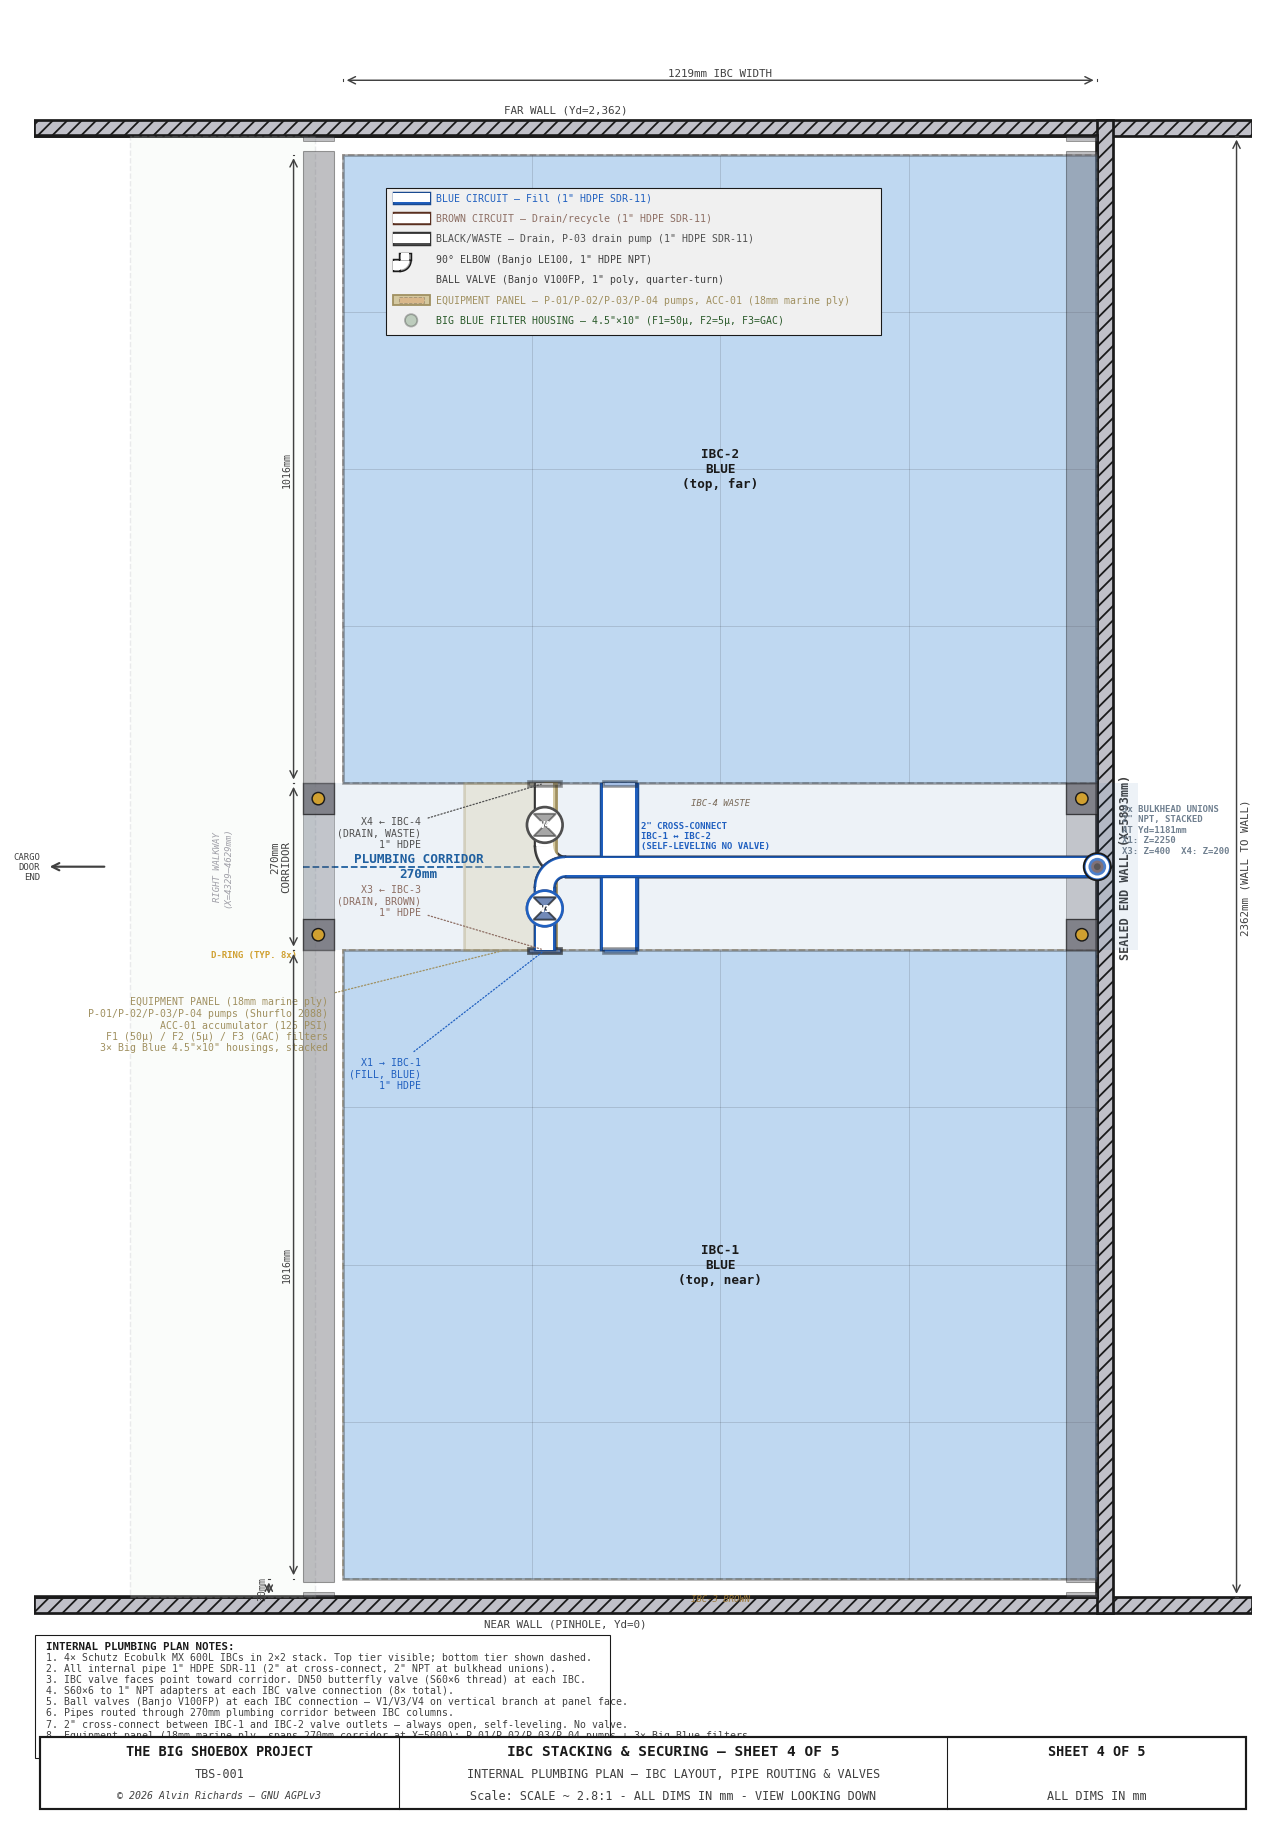
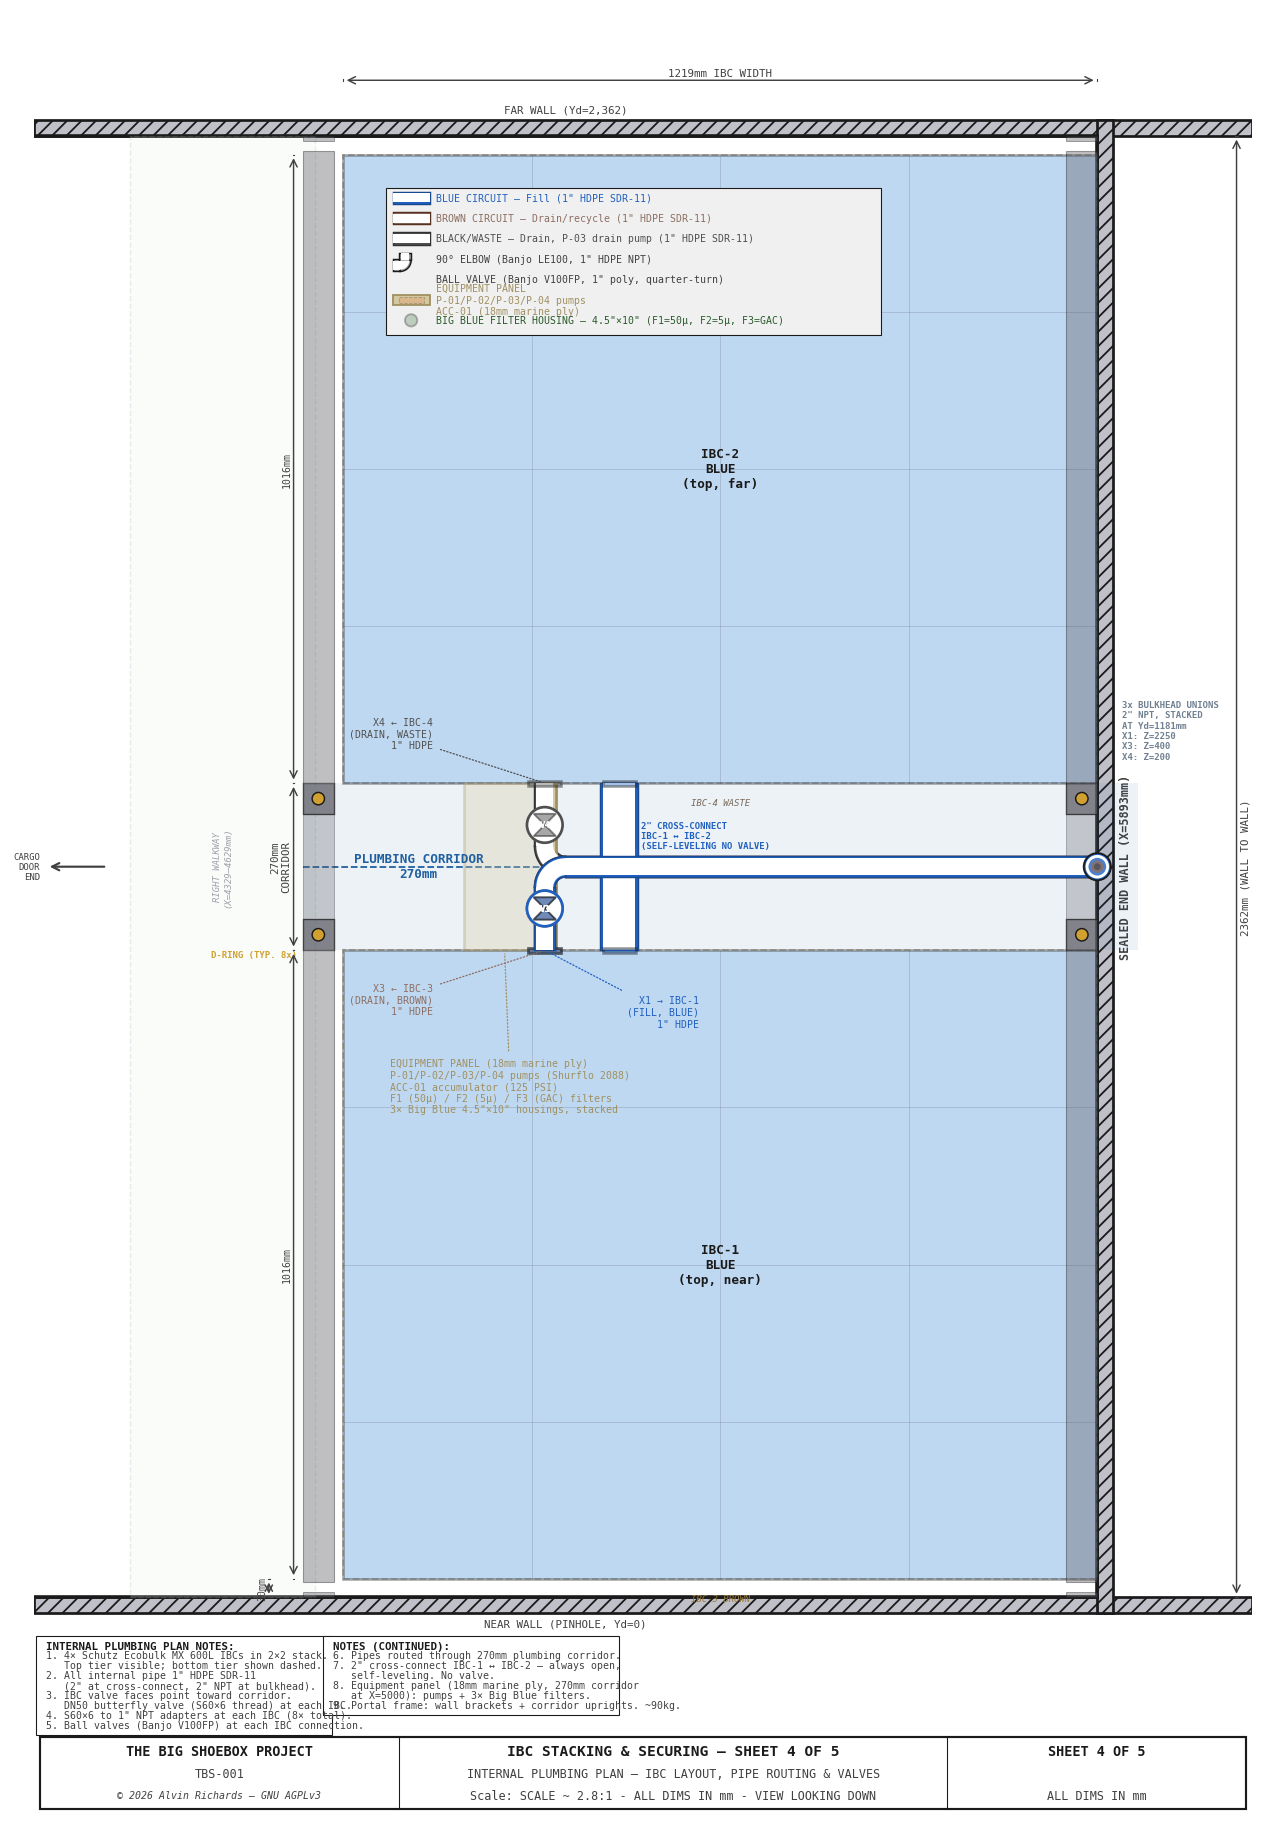
IBC stacking sheet 4: split notes into two columns to clear title block

diff --git a/generate_ibc_stacking_diagram.py b/generate_ibc_stacking_diagram.py
@@ -1379,13 +1379,13 @@ def sheet4():
 
     # Leader with panel contents
     leader(ax, px(ep_face_x - BB_OD / 2), py(ep_yd_near),
-           px(ep_face_x - 350), py(ep_yd_near - 120),
+           px(ep_face_x - 250), py(ep_yd_near - 220),
            "EQUIPMENT PANEL (18mm marine ply)\n"
            "P-01/P-02/P-03/P-04 pumps (Shurflo 2088)\n"
            "ACC-01 accumulator (125 PSI)\n"
            "F1 (50μ) / F2 (5μ) / F3 (GAC) filters\n"
            "3× Big Blue 4.5\"×10\" housings, stacked",
-           fs=5.5, color="#A09060", ha="right", font=FONT)
+           fs=5.5, color="#A09060", ha="left", font=FONT)
 
     # ── Pipe fitting helpers (matching sheet 5 conventions) ────────────────
     PIPE_OD = 33.4    # 1" HDPE SDR-11 outer diameter (mm)
@@ -1465,9 +1465,9 @@ def sheet4():
         ax.add_patch(Circle((px(bh_x), py(panel_yd)),
                      px(port_r * r_frac), fc=color, ec="none",
                      zorder=13, alpha=0.8))
-    ax.text(px(bh_x + 40), py(panel_yd + 60),
+    ax.text(px(bh_x + 40), py(panel_yd + 220),
             "3x BULKHEAD UNIONS\n2\" NPT, STACKED\nAT Yd=" + f"{int(panel_yd)}mm\n"
-            "X1: Z={0}\nX3: Z={1}  X4: Z={2}".format(
+            "X1: Z={0}\nX3: Z={1}\nX4: Z={2}".format(
                 EXT_FILL_1_H, EXT_DRAIN_3_H, EXT_DRAIN_4_H),
             ha="left", va="center", fontsize=5, color=C_PORT,
             fontweight="bold", **FONT, zorder=15)
@@ -1494,7 +1494,7 @@ def sheet4():
     v4_yd = (far_ibc_conn_yd + panel_yd) / 2
     valve_plan(ax, drain_x, v4_yd, 'v', C_PIPE_BLACK, "V4")
     leader(ax, px(drain_x), py(far_ibc_conn_yd),
-           px(drain_x - 200), py(far_ibc_conn_yd - 80),
+           px(drain_x - 180), py(far_ibc_conn_yd + 80),
            "X4 ← IBC-4\n(DRAIN, WASTE)\n1\" HDPE",
            fs=5.5, color=C_PIPE_BLACK, ha="right", font=FONT)
     # ── X3: IBC-3 (near, Brown) → bulkhead (above X4) ──────────────────────
@@ -1508,7 +1508,7 @@ def sheet4():
     v3_yd = (near_ibc_conn_yd + panel_yd) / 2
     valve_plan(ax, drain_x, v3_yd, 'v', C_PIPE_BROWN, "V3")
     leader(ax, px(drain_x), py(near_ibc_conn_yd),
-           px(drain_x - 200), py(near_ibc_conn_yd + 80),
+           px(drain_x - 180), py(near_ibc_conn_yd - 80),
            "X3 ← IBC-3\n(DRAIN, BROWN)\n1\" HDPE",
            fs=5.5, color=C_PIPE_BROWN, ha="right", font=FONT)
     # ── X1: Bulkhead → corridor → IBC-1 (near, Blue) — single fill ────────
@@ -1521,7 +1521,7 @@ def sheet4():
     valve_plan(ax, fill_x, v1_yd, 'v', C_PIPE_BLUE, "V1")
     flange_plan(ax, fill_x, near_ibc_conn_yd, 'v', C_PIPE_BLUE)
     leader(ax, px(fill_x), py(near_ibc_conn_yd),
-           px(fill_x - 200), py(near_ibc_conn_yd - 200),
+           px(fill_x + 250), py(near_ibc_conn_yd - 100),
            "X1 → IBC-1\n(FILL, BLUE)\n1\" HDPE",
            fs=5.5, color=C_PIPE_BLUE, ha="right", font=FONT)
 
@@ -1605,7 +1605,7 @@ def sheet4():
                             fc=C_PUMP, ec=C_OUT, lw=0.5, alpha=0.25,
                             ls="--", zorder=15))
     ax.text(leg_x + px(70), y_ep,
-            "EQUIPMENT PANEL — P-01/P-02/P-03/P-04 pumps, ACC-01 (18mm marine ply)",
+            "EQUIPMENT PANEL\nP-01/P-02/P-03/P-04 pumps\nACC-01 (18mm marine ply)",
             ha="left", va="center", fontsize=5.5, color="#A09060",
             **FONT, zorder=15)
 
@@ -1645,21 +1645,33 @@ def sheet4():
     draw_dim_v(ax, px(frame_x_r + 225), py(0), py(C_WID),
                f"{C_WID}mm (WALL TO WALL)", offset=px(10), fs=6, right=True, font=FONT)
 
-    # ── Notes ────────────────────────────────────────────────────────────────
-    notes = [
+    # ── Notes (two columns to fit above title block) ───────────────────────
+    notes_l = [
         "INTERNAL PLUMBING PLAN NOTES:",
-        f"1. 4× Schutz Ecobulk MX 600L IBCs in 2×2 stack. Top tier visible; bottom tier shown dashed.",
-        "2. All internal pipe 1\" HDPE SDR-11 (2\" at cross-connect, 2\" NPT at bulkhead unions).",
-        "3. IBC valve faces point toward corridor. DN50 butterfly valve (S60×6 thread) at each IBC.",
-        "4. S60×6 to 1\" NPT adapters at each IBC valve connection (8× total).",
-        "5. Ball valves (Banjo V100FP) at each IBC connection — V1/V3/V4 on vertical branch at panel face.",
-        f"6. Pipes routed through {CORRIDOR_W}mm plumbing corridor between IBC columns.",
-        "7. 2\" cross-connect between IBC-1 and IBC-2 valve outlets — always open, self-leveling. No valve.",
-        f"8. Equipment panel (18mm marine ply, spans {CORRIDOR_W}mm corridor at X={EQPANEL_X}): P-01/P-02/P-03/P-04 pumps + 3× Big Blue filters.",
+        f"1. 4× Schutz Ecobulk MX 600L IBCs in 2×2 stack.",
+        "   Top tier visible; bottom tier shown dashed.",
+        "2. All internal pipe 1\" HDPE SDR-11",
+        "   (2\" at cross-connect, 2\" NPT at bulkhead).",
+        "3. IBC valve faces point toward corridor.",
+        "   DN50 butterfly valve (S60×6 thread) at each IBC.",
+        "4. S60×6 to 1\" NPT adapters at each IBC (8× total).",
+        "5. Ball valves (Banjo V100FP) at each IBC connection.",
+    ]
+    notes_r = [
+        "NOTES (CONTINUED):",
+        f"6. Pipes routed through {CORRIDOR_W}mm plumbing corridor.",
+        "7. 2\" cross-connect IBC-1 ↔ IBC-2 — always open,",
+        "   self-leveling. No valve.",
+        f"8. Equipment panel (18mm marine ply, {CORRIDOR_W}mm corridor",
+        f"   at X={EQPANEL_X}): pumps + 3× Big Blue filters.",
         f"9. Portal frame: wall brackets + corridor uprights. ~{FRAME_WEIGHT}kg.",
     ]
-    draw_notes(ax, notes, px(X_LO + 20), py(YD_LO + 280), spacing=py(18),
-               fs=5.5, font=FONT, width=2500)
+    notes_y = py(YD_LO + 280)
+    notes_sp = py(16)
+    draw_notes(ax, notes_l, px(X_LO + 20), notes_y, spacing=notes_sp,
+               fs=5.5, font=FONT, width=1250)
+    draw_notes(ax, notes_r, px(X_LO + 20) + 1300, notes_y, spacing=notes_sp,
+               fs=5.5, font=FONT, width=1250)
 
     # ── Title block ──────────────────────────────────────────────────────────
     title_block(ax, "SHEET 4 OF 5",
